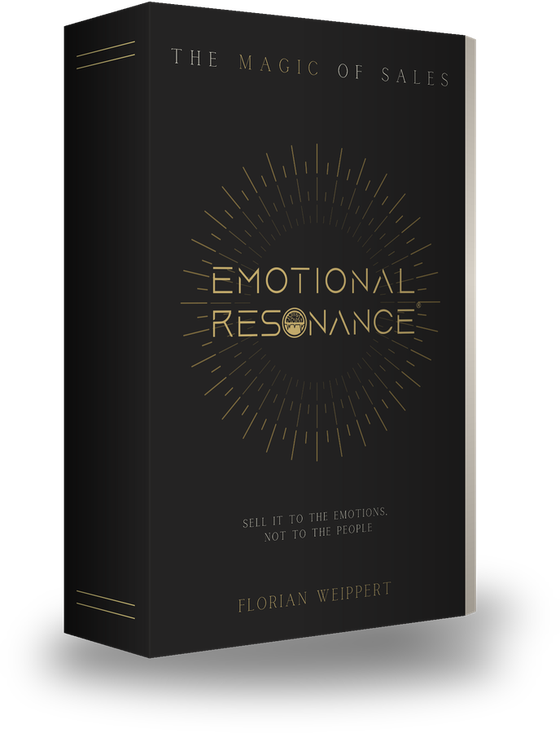
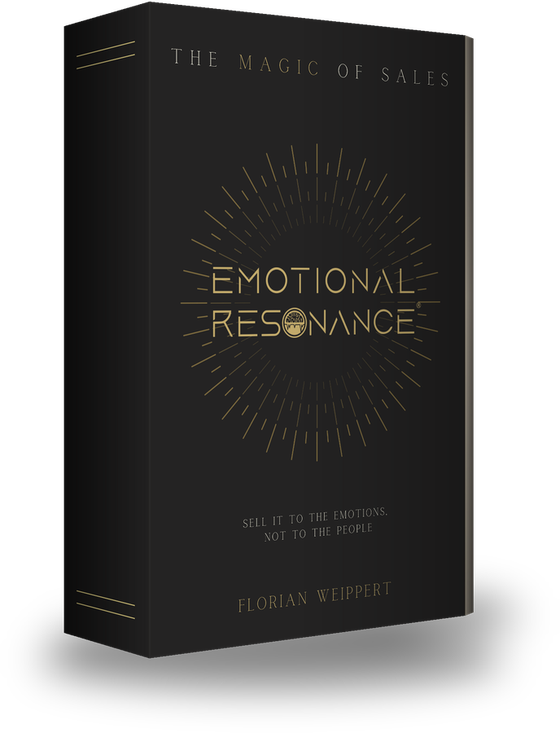
Full-Service-Abschluss, Buchblock hervorgehoben, Signal-Sales-Intelligence, Kostensatz gestrichen

Changed region(s): [[0.8196, 0.03, 0.85, 0.8404]]

diff --git a/index.html b/index.html
@@ -107,7 +107,7 @@
           "name": "Was kostet das?",
           "acceptedAnswer": {
             "@type": "Answer",
-            "text": "Übliche Modelle sind ein monatliches Fixum für Kapazität, eine Mischung aus Fixum und Erfolgsanteil pro Termin oder Tagessätze für Beratung und Training. Als Orientierung: Ein externes Akquise-Team liegt deutlich unter den Vollkosten eines angestellten Vertriebsmitarbeiters, weil Recruiting, Einarbeitung, Ausfallrisiko und Arbeitgeberkosten entfallen. Die einzelnen Posten stehen unter Vertriebsoutsourcing Kosten."
+            "text": "Übliche Modelle sind ein monatliches Fixum für Kapazität, eine Mischung aus Fixum und Erfolgsanteil pro Termin oder Tagessätze für Beratung und Training. Welches Modell passt, hängt davon ab, ob Sie Kapazität oder Ergebnisse einkaufen wollen. Die einzelnen Posten stehen unter Vertriebsoutsourcing Kosten."
           }
         },
         {
@@ -408,19 +408,22 @@
           <li>Qualifizieren: Zust&auml;ndigkeit, Bedarf, Zeitpunkt</li>
           <li>Den Termin setzen und dokumentiert &uuml;bergeben</li>
           <li>Jede Woche berichten, was lief und was wir &auml;ndern</li>
+          <li>Auf Wunsch: das Verkaufsgespr&auml;ch bis zum Abschluss f&uuml;hren</li>
         </ul>
       </div>
       <div class="card" data-dm-reveal data-dm-stagger="1" data-dm-phase-card><span class="dm-card__line" data-dm-phase-line aria-hidden="true"></span>
         <h3>Bei Ihnen bleibt</h3>
         <ul>
           <li>Ihr Angebot, Ihre Preise, Ihre Positionierung</li>
-          <li>Das eigentliche Verkaufsgespr&auml;ch beim Termin</li>
-          <li>Angebot, Verhandlung und Abschluss</li>
+          <li>Das Verkaufsgespr&auml;ch beim Termin &ndash; wenn Sie es selbst f&uuml;hren wollen</li>
+          <li>Angebot, Verhandlung und Abschluss &ndash; oder Sie geben auch das an uns ab</li>
           <li>Die Freigabe der Zielkundenliste, bevor wir anrufen</li>
           <li>Rund eine Stunde pro Woche f&uuml;r R&uuml;ckfragen aus den Gespr&auml;chen</li>
         </ul>
-        <p class="small muted">Wir verkaufen nicht in Ihrem Namen ab und machen keine Zusagen zu
-          Preis oder Leistungsumfang. Das bleibt bei Ihnen &ndash; und das ist Absicht.</p>
+        <p class="small muted"><strong>Beides ist m&ouml;glich.</strong> Entweder Sie bekommen den
+          Termin und f&uuml;hren das Gespr&auml;ch selbst &ndash; oder wir &uuml;bernehmen auch den
+          Abschluss und Sie bekommen den unterschriebenen Auftrag. Preise, Leistungsumfang und die
+          Grenzen des Verhandelbaren geben in beiden F&auml;llen Sie vor.</p>
       </div>
     </div>
 
@@ -553,7 +556,9 @@
     <p class="small muted" style="max-width:720px">Wen wir f&uuml;r Ihr Projekt vorsehen,
       besprechen wir vorab mit Ihnen &ndash; nicht erst, wenn die ersten Berichte kommen.</p>
 
-    <div class="buch buch--slim" data-dm-reveal style="max-width:820px;margin-top:2.6rem">
+    <div class="buch-plate" data-dm-reveal style="max-width:860px;margin-top:3.2rem">
+      <p class="eyebrow buch-plate__label">Unser Methodenhandbuch</p>
+      <div class="buch buch--slim">
       <figure class="fig">
         <picture>
           <source srcset="/assets/buch-mockup.webp" type="image/webp">
@@ -564,8 +569,10 @@
       <div>
         <p>Wie wir Gespräche führen, ist nicht Bauchgefühl, sondern aufgeschrieben: 383 Seiten,
           entstanden aus knapp zwanzig Jahren Vertriebspraxis – das Handbuch, aus dem unsere
-          Anrufer und unsere Trainings arbeiten. Im Handel gibt es das Buch nicht.
+          Anrufer und unsere Trainings arbeiten.
           <a href="/warum-wir/#die-methode-steht-geschrieben">Mehr dazu unter „Warum DEALMAKERS“</a>.</p>
+        <p class="buch__meta">383 Seiten &middot; Emotional Resonance&reg; &middot; Grundlage jedes Gespr&auml;chs</p>
+      </div>
       </div>
     </div>
   </div>
@@ -577,10 +584,18 @@
       <p class="eyebrow" data-dm-scramble style="color:#c9ba77">Wann wir anrufen</p>
       <h2 data-dm-reveal="head">Wir rufen an, wenn etwas passiert ist.</h2>
       <p class="lead" style="color:#cdd4e6">Ob ein Anruf abgew&uuml;rgt wird oder in ein
-        Gespr&auml;ch f&uuml;hrt, liegt selten am Verk&auml;ufer. Es liegt am Zeitpunkt. Deshalb
+        Gespr&auml;ch f&uuml;hrt, liegt nicht nur am Verk&auml;ufer. Es liegt am Zeitpunkt. Deshalb
         suchen wir vor jeder Ansprache erst den Anlass: eine Stellenausschreibung, einen
-        F&uuml;hrungswechsel, einen neuen Standort, eine Finanzierung &ndash; etwas, das jeder
-        nachlesen kann. Dann ist Ihr Angebot beim Angerufenen ohnehin schon Thema.</p>
+        F&uuml;hrungswechsel, einen neuen Standort, eine Finanzierung. Dann ist Ihr Angebot beim
+        Angerufenen ohnehin schon Thema.</p>
+      <p style="color:#cdd4e6;max-width:760px">Gefunden wird der Anlass nicht per Hand, sondern
+        mit unserer <strong style="color:#fff">Signal-Sales-Intelligence</strong>: einer KI, die
+        f&uuml;r jede Zielfirma laufend Quellen auswertet &ndash; die Social-Media-Profile und
+        Beitr&auml;ge Ihres Gespr&auml;chspartners, Unternehmensnachrichten, Stellenausschreibungen,
+        Register- und Presseeintr&auml;ge. Daraus entsteht pro Kontakt ein Bild: wer die Person ist,
+        was das Unternehmen gerade besch&auml;ftigt und welches Ereignis genau jetzt einen Anruf
+        tr&auml;gt. Die Einzelteile sind &ouml;ffentlich &ndash; zusammengesetzt hat sie niemand,
+        und von au&szlig;en sieht man einer Firma nicht an, was wir dabei gefunden haben.</p>
     </div>
 
     <figure class="fig" data-dm-reveal>
@@ -645,9 +660,8 @@
         <summary>Was kostet das?</summary>
         <div><p>&Uuml;bliche Modelle sind ein monatliches Fixum f&uuml;r Kapazit&auml;t, eine
           Mischung aus Fixum und Erfolgsanteil pro Termin oder Tagess&auml;tze f&uuml;r Beratung
-          und Training. Als Orientierung: Ein externes Akquise-Team liegt deutlich unter den
-          Vollkosten eines angestellten Vertriebsmitarbeiters, weil Recruiting, Einarbeitung,
-          Ausfallrisiko und Arbeitgeberkosten entfallen. Die einzelnen Posten stehen unter
+          und Training. Welches Modell passt, h&auml;ngt davon ab, ob Sie Kapazit&auml;t oder
+          Ergebnisse einkaufen wollen. Die einzelnen Posten stehen unter
           <a href="/vertriebsoutsourcing-kosten/">Vertriebsoutsourcing Kosten</a>.</p></div>
       </details>
       <details>

diff --git a/assets/styles.css b/assets/styles.css
@@ -520,12 +520,33 @@ h1, h2 { position: relative; }
 .buch__meta { margin-top: 1.2rem; font-family: var(--font-mono); font-size: .72rem;
               letter-spacing: .14em; text-transform: uppercase; color: var(--muted);
               line-height: 2; }
-.buch--slim { grid-template-columns: 172px minmax(0,1fr); gap: 20px;
+.buch--slim { grid-template-columns: 250px minmax(0,1fr); gap: 32px;
               align-items: center; }
+
+/* Traegerplatte fuer den Buchblock auf der Startseite. Auf dunklem Grund ging
+   das Mockup unter - die Platte hebt es mit warmem Schein, feiner Goldkante
+   und einem eigenen Schlagschatten am Buch heraus. */
+.buch-plate { position: relative; margin-left: auto; margin-right: auto;
+              padding: clamp(1.5rem, 3vw, 2.4rem) clamp(1.5rem, 3vw, 2.6rem);
+              border: 1px solid rgba(201,186,119,.3); border-radius: var(--radius);
+              background:
+                radial-gradient(120% 150% at 16% 0%, rgba(201,186,119,.14), rgba(201,186,119,0) 62%),
+                linear-gradient(180deg, var(--surface-2), var(--surface));
+              box-shadow: 0 24px 60px rgba(0,0,0,.42), inset 0 1px 0 rgba(255,255,255,.05); }
+.buch-plate::before { content: ""; position: absolute; left: -1px; top: 12%; bottom: 12%;
+              width: 2px; background: linear-gradient(180deg,
+                rgba(201,186,119,0), var(--gold), rgba(201,186,119,0)); }
+.buch-plate .buch { margin: 0; }
+.buch-plate .buch img { filter: drop-shadow(0 20px 40px rgba(0,0,0,.65))
+                                drop-shadow(0 0 26px rgba(201,186,119,.18)); }
+.buch-plate__label { color: var(--gold); margin-bottom: 1.2rem; }
+.buch-plate .buch__meta { margin-top: .9rem; }
 @media (max-width: 720px) {
   .buch { grid-template-columns: 1fr; gap: 20px; }
   .buch figure { max-width: 260px; }
   .buch--slim { grid-template-columns: 1fr; }
+  .buch-plate { padding: 1.4rem 1.2rem; }
+  .buch-plate .buch figure { margin: 0 auto; }
 }
 
 /* Wechselndes Goldwort in der Startseiten-Überschrift.

diff --git a/kaltakquise-agentur/index.html b/kaltakquise-agentur/index.html
@@ -389,20 +389,22 @@
             <li>Qualifizieren nach vorher vereinbarten Kriterien</li>
             <li>Termin setzen und mit Gespr&auml;chsprotokoll &uuml;bergeben</li>
             <li>W&ouml;chentlich berichten: was lief, welche Einw&auml;nde kamen, was wir &auml;ndern</li>
+            <li>Auf Wunsch: das Verkaufsgespr&auml;ch bis zum Abschluss f&uuml;hren</li>
           </ul>
         </div>
         <div class="card" data-dm-reveal data-dm-stagger="1" data-dm-phase-card><span class="dm-card__line" data-dm-phase-line aria-hidden="true"></span>
           <h3>Bei Ihnen bleibt</h3>
           <ul>
             <li>Ihr Angebot, Ihre Preise, Ihre Positionierung</li>
-            <li>Das Verkaufsgespr&auml;ch beim Termin</li>
-            <li>Angebot, Verhandlung und Abschluss</li>
+            <li>Das Verkaufsgespr&auml;ch beim Termin &ndash; wenn Sie es selbst f&uuml;hren wollen</li>
+            <li>Angebot, Verhandlung und Abschluss &ndash; oder Sie geben auch das an uns ab</li>
             <li>Die Freigabe der Zielkundenliste, bevor wir anrufen</li>
             <li>Rund eine Stunde pro Woche f&uuml;r R&uuml;ckfragen aus den Gespr&auml;chen</li>
           </ul>
-          <p class="small muted">Wir treten in Ihrem Namen auf, sobald wir Rolle und Wortlaut
-            gemeinsam festgelegt haben &ndash; aber wir machen keine Zusagen zu Preis oder
-            Leistungsumfang. Das bleibt bei Ihnen, und das ist Absicht.</p>
+          <p class="small muted"><strong>Beides ist m&ouml;glich.</strong> Entweder Sie bekommen
+            den Termin und f&uuml;hren das Gespr&auml;ch selbst &ndash; oder wir &uuml;bernehmen
+            auch den Abschluss. Preise, Leistungsumfang und die Grenzen des Verhandelbaren geben in
+            beiden F&auml;llen Sie vor.</p>
         </div>
       </div>
       <div class="note" data-dm-reveal>
